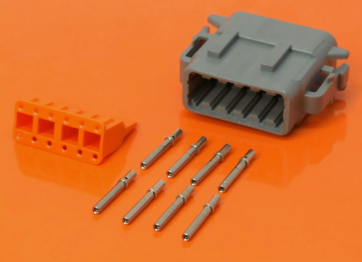
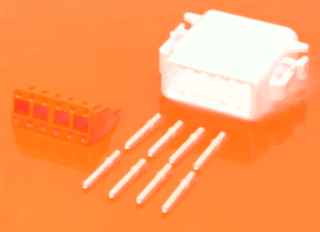
Added ISOBUS connectors and resized some connector images

Changed region(s): [[0.25, 0.0302, 1.0, 0.9353], [0.0312, 0.4224, 0.4062, 0.6336]]

diff --git a/content/hardware/Other-components/Connectors/_index.md b/content/hardware/Other-components/Connectors/_index.md
@@ -62,7 +62,7 @@ There's also a handy list of potentially-printable connectors
 | ![image](img/j1939-plug.png)       | Part number: search "J1939 plug"<br>Typical usage: ISOBUS/CANBUS connectors<br>https://mou.sr/3ogaikK<br>https://www.agritronixcorp.com/amphenol-tuchel-c016-7-terminal-plug-male-kit.html<br>https://www.aliexpress.com/item/1005002988396207.html<br>https://www.te.com/usa-en/product-HD16-9-1939S.html |
 | ![image](img/j1939-plug-green.png) | Part number: search "J1939 plug"<br>Note, typically green plugs are for 500kbps sockets. Black for 250 or lower. There is a subtle pin difference to the above with regard to the diameter of the top pin.<br>https://mou.sr/45feOk9<br>https://www.te.com/usa-en/product-HD16-9-1939S-P080.html           |
 | ![image](img/9pinisobus.png)       | Part Number: TE/AMP 206708-1<br>https://www.te.com/en/product-206708-1.html<br>Typical usage: In-cab ISOBUS connectors                                                                                                                                                                                     |
-
+| ![image](img/isobus-outside.png)       | Part Number: AHDP06-24-91SN-WTA<br>https://www.mouser.co.uk/ProductDetail/Amphenol-SINE-Systems/AHDP06-24-91SN-WTA?qs=MyNHzdoqoQLlEjSU%2Fu0c6Q%3D%3D<br>Typical usage: Exterior ISOBUS connectors                                                                                                                                                                                     |
 ### 12-pin
 
 | Description                        | Sample                                                                                                                                                                                                                           |
